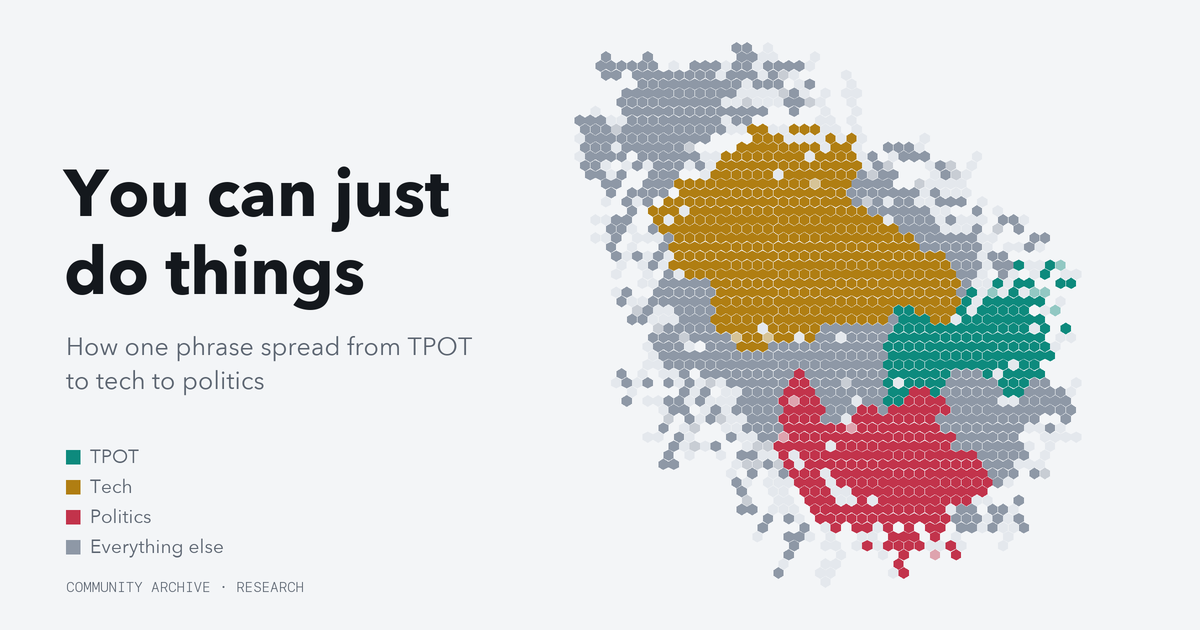
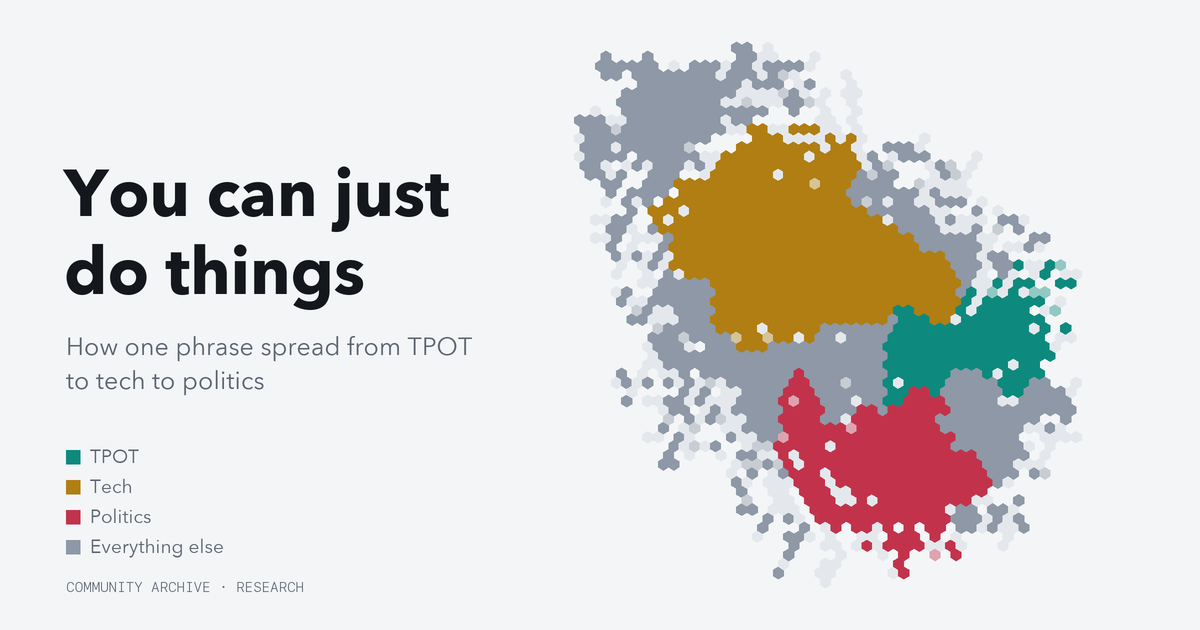
Drop homepage counts line, solid thumbnail blocks, link Portal post
- Remove the archive counts line under the homepage digest.
- Redraw the research card without gaps between hexagons, light and dark.
- Link the Portal residency to the "Through the Portal" post.

Changed region(s): [[0.4933, 0.0905, 0.8942, 0.9048]]

diff --git a/src/components/home/HomepageDataSections.tsx b/src/components/home/HomepageDataSections.tsx
@@ -13,65 +13,6 @@ import { formatNumber } from '@/lib/formatNumber'
 import type { HomepageData } from '@/lib/portal/data'
 import { measureServerRead } from '@/lib/performance/server'
 
-export async function HomepageGrowth({
-  data,
-}: {
-  data: HomepageData['globalStats']
-}) {
-  const stats = await data
-  if (stats.failed) {
-    return (
-      <p className="mt-4 text-center text-sm text-muted-foreground">
-        Archive counts are temporarily unavailable.
-      </p>
-    )
-  }
-  const {
-    totalTweets,
-    memberCount,
-    membersAddedLast24Hours,
-    addedLast24Hours,
-  } = stats.data
-  const count = (value: number) => value.toLocaleString('en-US')
-  return (
-    <p className="mt-4 text-center text-sm text-muted-foreground">
-      <span className="inline-block whitespace-nowrap">
-        <strong className="font-medium tabular-nums text-foreground">
-          {count(totalTweets)}
-        </strong>{' '}
-        tweets
-        {addedLast24Hours != null && (
-          <span
-            className="tabular-nums"
-            title="Tweets added in the last 24 hours"
-            aria-label={`${count(addedLast24Hours)} tweets added in the last 24 hours`}
-          >
-            {' '}
-            (+{count(addedLast24Hours)})
-          </span>
-        )}
-      </span>
-      {' · '}
-      <span className="inline-block whitespace-nowrap">
-        <strong className="font-medium tabular-nums text-foreground">
-          {count(memberCount)}
-        </strong>{' '}
-        members
-        {membersAddedLast24Hours != null && (
-          <span
-            className="tabular-nums"
-            title="Members added in the last 24 hours"
-            aria-label={`${count(membersAddedLast24Hours)} members added in the last 24 hours`}
-          >
-            {' '}
-            (+{count(membersAddedLast24Hours)})
-          </span>
-        )}
-      </span>
-    </p>
-  )
-}
-
 export async function HomepageStats({
   data,
 }: {
@@ -169,23 +110,9 @@ export function HomepagePortal({
   return (
     <HomepageHighlightsLayout
       digest={
-        <>
-          <Suspense fallback={<SectionLoading label="daily digest" />}>
-            <HomepageDigest />
-          </Suspense>
-          <Suspense
-            fallback={
-              <p
-                role="status"
-                className="mt-4 text-center text-sm text-muted-foreground"
-              >
-                Loading archive counts…
-              </p>
-            }
-          >
-            <HomepageGrowth data={data.globalStats} />
-          </Suspense>
-        </>
+        <Suspense fallback={<SectionLoading label="daily digest" />}>
+          <HomepageDigest />
+        </Suspense>
       }
       trends={
         <Suspense fallback={<SectionLoading label="trending terms" />}>

diff --git a/src/components/home/HomepageDataSections.test.tsx b/src/components/home/HomepageDataSections.test.tsx
@@ -2,7 +2,6 @@ import { render, screen } from '@testing-library/react'
 import type { HomepageData } from '@/lib/portal/data'
 import {
   HomepageStats,
-  HomepageGrowth,
   HomepageResearch,
   HomepageTrends,
   HomepageDigest,
@@ -68,48 +67,4 @@ test('rounds compact headline totals down to reached milestones', async () => {
   )
   expect(screen.getByText('1.6K community members')).toBeInTheDocument()
   expect(screen.getByText('21.6M public tweets')).toBeInTheDocument()
-})
-
-test('shows full totals with compact 24-hour additions', async () => {
-  render(await HomepageGrowth({ data: growthStats() }))
-  expect(screen.getByText('21,023,737')).toBeInTheDocument()
-  expect(screen.getByText('1,261')).toBeInTheDocument()
-  expect(screen.getByText('(+668,600)')).toHaveAttribute(
-    'title',
-    'Tweets added in the last 24 hours',
-  )
-  expect(screen.getByText('(+259)')).toHaveAttribute(
-    'title',
-    'Members added in the last 24 hours',
-  )
-  expect(screen.queryByText(/Members added:/)).not.toBeInTheDocument()
-  expect(screen.queryByText(/Membership as of/)).not.toBeInTheDocument()
-})
-
-test('shows zero additions and omits unavailable additions', async () => {
-  const { rerender } = render(
-    await HomepageGrowth({
-      data: growthStats({ membersAddedLast24Hours: 0, addedLast24Hours: 0 }),
-    }),
-  )
-  expect(screen.getAllByText('(+0)')).toHaveLength(2)
-  rerender(
-    await HomepageGrowth({
-      data: growthStats({
-        membersAddedLast24Hours: null,
-        addedLast24Hours: null,
-      }),
-    }),
-  )
-  expect(screen.getByText('21,023,737')).toBeInTheDocument()
-  expect(screen.getByText('1,261')).toBeInTheDocument()
-  expect(screen.queryByText(/\(\+/)).not.toBeInTheDocument()
-})
-
-test('shows an explicit failure instead of zero totals', async () => {
-  render(await HomepageGrowth({ data: growthStats({}, true) }))
-  expect(
-    screen.getByText('Archive counts are temporarily unavailable.'),
-  ).toBeInTheDocument()
-  expect(screen.queryByText('1,261')).not.toBeInTheDocument()
 })

diff --git a/src/components/FundersThanks.tsx b/src/components/FundersThanks.tsx
@@ -71,7 +71,11 @@ const FUNDERS: { key: string; body: ReactNode }[] = [
     key: 'portal',
     body: (
       <>
-        The <Name>Portal residency</Name>, where the archive was born.
+        The{' '}
+        <Ext href="https://xiqo.substack.com/p/through-the-portal">
+          Portal residency
+        </Ext>
+        , where the archive was born.
       </>
     ),
   },
